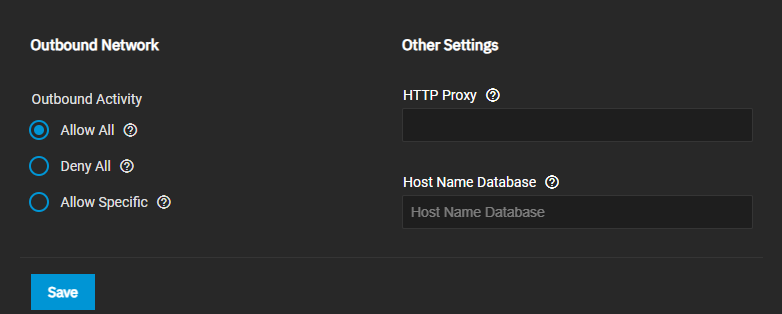
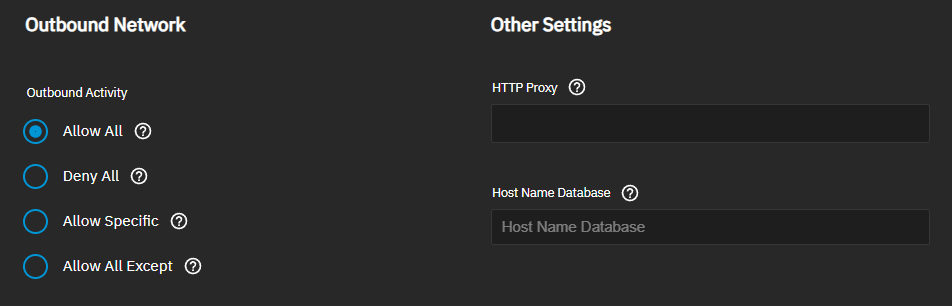
PD-2047-document-new-network-global-config-option-allow-all-except

diff --git a/content/SCALE/SCALETutorials/Network/ManagingGlobalConfig.md b/content/SCALE/SCALETutorials/Network/ManagingGlobalConfig.md
@@ -46,14 +46,15 @@ Go to **Network**, and click **Settings** on the **Global Configuration** widget
 4. Enter the IP address for your default gateway into the **IPv4 Default Gateway** if you are using IPv4 IP addresses.
    Enter the IPv6 address in the **IPv6 Default Gateway** if you are using IPv6 addresses.
 
-5. Select **Allow All** for **Outbound Network**  to permit external communication for all TrueNAS services or select **Deny All** to prevent external communication.
-   Select **Allow Specific** and then use the dropdown list to pick a limited set of services to allow external communication.
+5. Select **Allow All** for **Outbound Network** to permit external communication for all TrueNAS services or select **Deny All** to prevent external communication.
+   Select **Allow Specific** and then use the **Services** dropdown list to pick a limited set of services to allow external communication. 
+   Select **Allow All Except** and then use the **Services** dropdown list to pick services to deny external communication while allowing all other services.
 
    {{< trueimage src="/images/SCALE/Network/GlobalConfigOutboundSettings.png" alt="Global Configuration Outbound Settings" id="Global Configuration Outbound Settings" >}}
 
    {{< trueimage src="/images/SCALE/Network/GlobalConfigAllowSpecificServiceOptions.png" alt="Global Configuration Allow Specific Service Options" id="Global Configuration Allow Specific Service Options" >}}
 
-   Click as many services as desired to permit external communications. Unchecked services cannot communicate externally.
+   Click as many services as desired. For **Allow Specific**, unchecked services cannot communicate externally. For **Allow All Except**, checked services cannot communicate externally.
 
 See [below](#setting-up-external-communication-for-services) for more information.
 
@@ -80,8 +81,12 @@ Select **Allow All** to permit all of the above services to communicate external
 
 Select **Deny All** to prevent all of the above services from communicating externally.
 
-Select **Allow Specific** to permit external communication for the services you select.
-**Allow Specific** displays a dropdown list of selectable services.
+Select **Allow Specific** to permit external communication only for the services you select.
+**Allow Specific** displays a **Services** dropdown list of selectable services.
+
+Select **Allow All Except** to deny external communication for the services you select while allowing all other services.
+**Allow All Except** displays a **Services** dropdown list of selectable services.
+
 Click on all that apply. A checkmark displays next to a selected service, and these services display in the field separated by a comma (,).
 
 Click **Save** when finished.

diff --git a/content/SCALE/SCALEUIReference/Network/GlobalConfigurationScreens.md b/content/SCALE/SCALEUIReference/Network/GlobalConfigurationScreens.md
@@ -76,7 +76,8 @@ Select the setting that matches your preferred system services allowed to commun
 |---------|-------------|
 | **Allow All** | Select to allow any system service to communicate externally. |
 | **Deny All** | Select to restrict this system so it cannot communicate externally. |
-| **Allow Specific** | Select to specify a limited set of system services to allow to communicate externally. All other external traffic is restricted. If selected, a dropdown list shows where you select the services to allowed to communicate externally. |
+| **Allow Specific** | Select to specify a limited set of system services to allow to communicate externally. All other external traffic is restricted. If selected, a **Services** dropdown list shows where you select the services to allow to communicate externally. |
+| **Allow All Except** | Select to allow all system services to communicate externally except for the services you specify. If selected, a **Services** dropdown list shows where you select the services to deny external communication. |
 {{< /truetable >}}
 {{< truetable >}}
 | Setting | Description |
